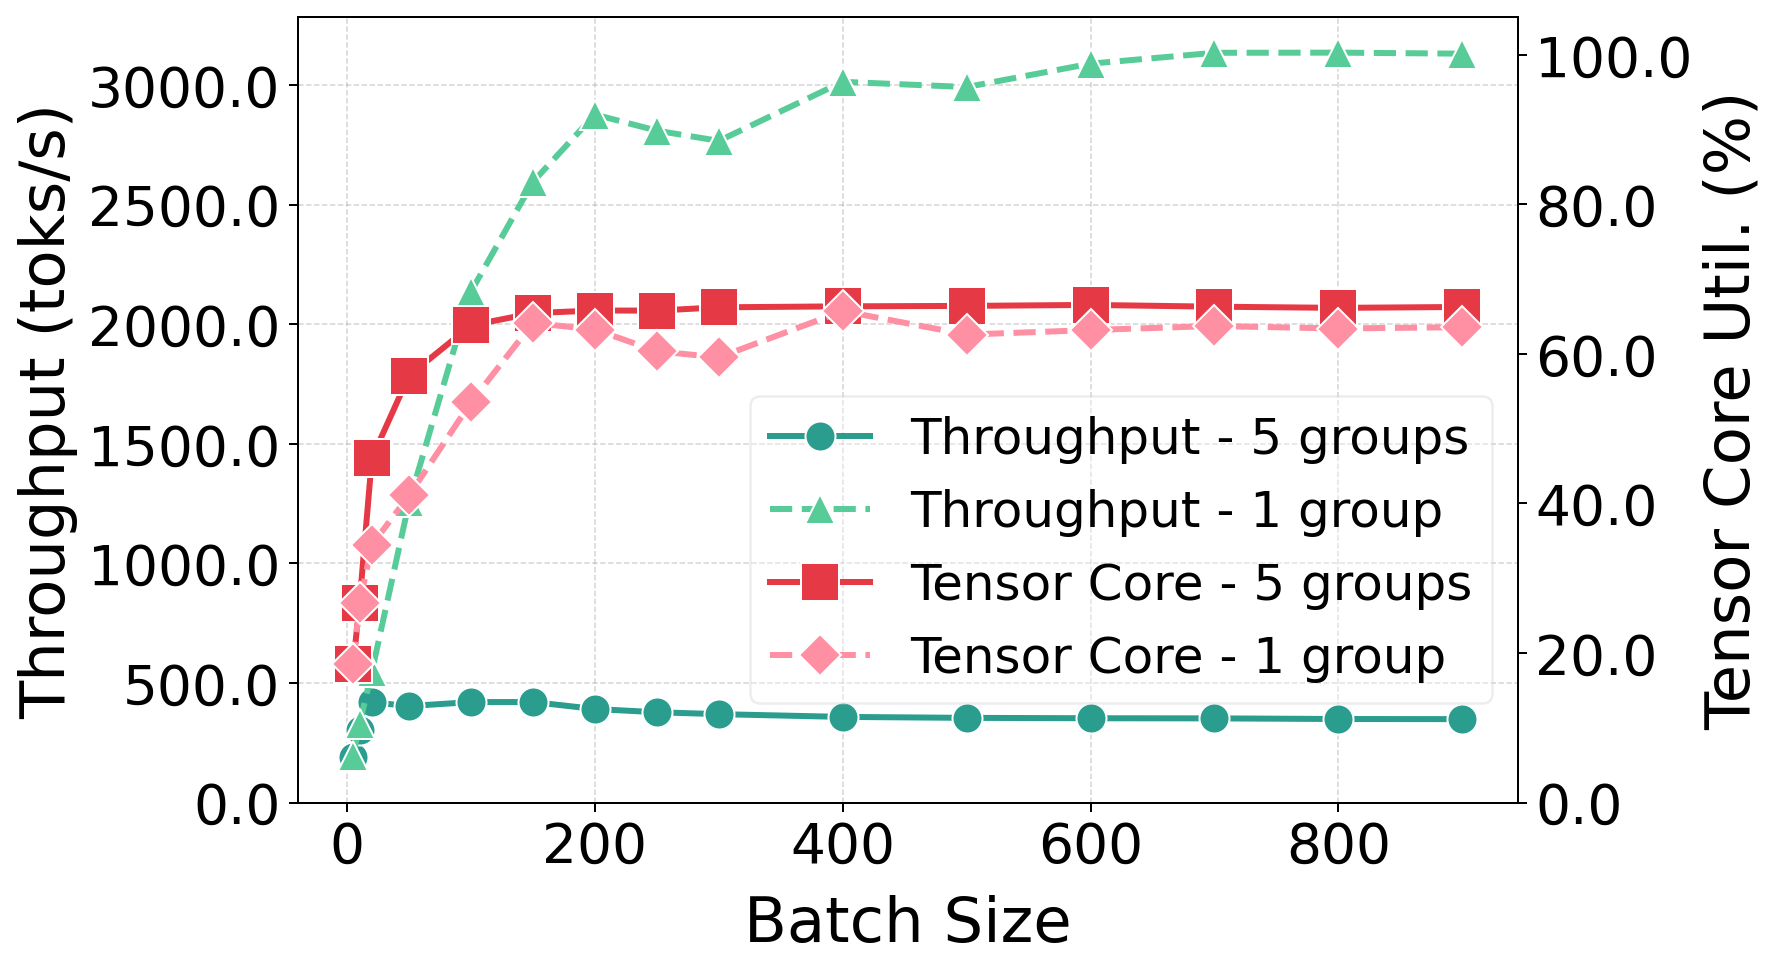
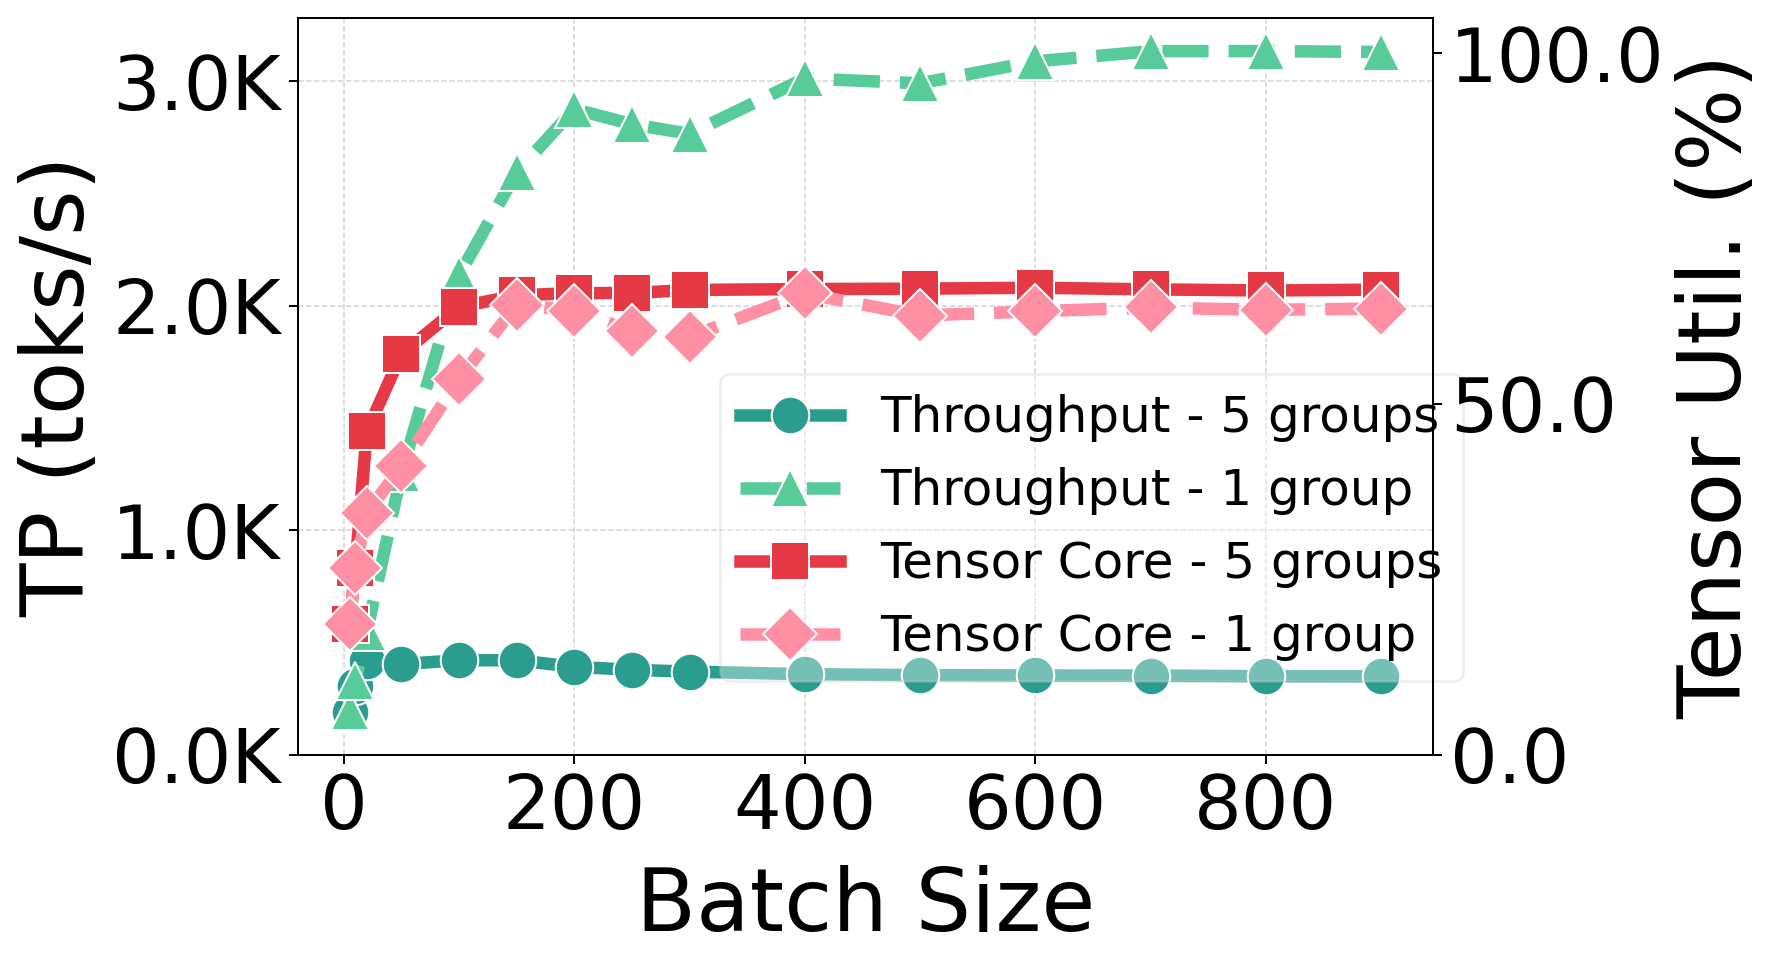
req-plots

Changed region(s): [[0.0619, 0.2172, 0.9904, 0.9928], [0.0, 0.062, 0.1857, 0.7446], [0.2786, 0.0, 0.9904, 0.2482]]

diff --git a/code/vllm/batch_size_logs/plot_both.py b/code/vllm/batch_size_logs/plot_both.py
@@ -37,7 +37,7 @@ MARKER_HETERO_RIGHT = "s"   # hetero, right-axis (tensor core / SM Occupancy)
 MARKER_HOMO_LEFT    = "^"   # homo,   left-axis
 MARKER_HOMO_RIGHT   = "D"   # homo,   right-axis
 
-LW = 2.4
+LW = 5
 MS = 10
 
 # Fields stored per batch-size entry in the cache
@@ -259,11 +259,11 @@ def _base_fig():
 
 
 def _finish(fig, ax_l, ax_r, xlabel, ylabel_l, ylabel_r, outpath, legend_loc="best"):
-    ax_l.set_xlabel(xlabel,   fontsize=25, labelpad=8)
-    ax_l.set_ylabel(ylabel_l, fontsize=25)
-    ax_r.set_ylabel(ylabel_r, fontsize=25)
-    ax_l.tick_params(axis="both", labelsize=22)
-    ax_r.tick_params(axis="y",    labelsize=22)
+    ax_l.set_xlabel(xlabel,   fontsize=35, labelpad=8)
+    ax_l.set_ylabel(ylabel_l, fontsize=35)
+    ax_r.set_ylabel(ylabel_r, fontsize=35)
+    ax_l.tick_params(axis="both", labelsize=30)
+    ax_r.tick_params(axis="y",    labelsize=30)
     ax_l.grid(True, linewidth=0.6, linestyle="--", alpha=0.55)
 
     lines_l, labels_l = ax_l.get_legend_handles_labels()
@@ -305,14 +305,15 @@ def plot_throughput_tensor(hetero: dict, homo: dict, out_dir: str) -> None:
 
     xs, ys = _xy(hetero, "throughput")
     ax_l.plot(xs, ys, color=C_TPUT_HETERO, marker=MARKER_HETERO_LEFT,
-              linestyle="-",  label="Throughput - 5 groups", **kw_base, markersize=12)
+              linestyle="-",  label="Throughput - 5 groups", **kw_base, markersize=15)
 
     xs, ys = _xy(homo, "throughput")
     ax_l.plot(xs, ys, color=C_TPUT_HOMO,   marker=MARKER_HOMO_LEFT,
-              linestyle="--", label="Throughput - 1 group",   **kw_base, markersize=12)
+              linestyle="--", label="Throughput - 1 group",   **kw_base, markersize=15)
 
     ax_l.set_ylim(bottom=0)
-    ax_l.yaxis.set_major_formatter(ticker.FormatStrFormatter("%.1f"))
+    # change 1000 to 1k
+    ax_l.yaxis.set_major_formatter(ticker.FuncFormatter(lambda x, p: f"{x/1000:.1f}K"))
     ax_l.xaxis.set_major_locator(ticker.MaxNLocator(nbins=6, integer=True))
 
     xs1, ys1 = _xy(hetero, "tenso")
@@ -326,15 +327,15 @@ def plot_throughput_tensor(hetero: dict, homo: dict, out_dir: str) -> None:
         if b in xs1:
             ys2.append((ys[xs.index(b)] + ys1[xs1.index(b)]) / 2)
     ax_r.plot(xs, ys2, color=C_TENSO_HOMO,   marker=MARKER_HOMO_RIGHT,
-              linestyle="--", label="Tensor Core - 1 group",   **kw_base, markersize=12)
+              linestyle="--", label="Tensor Core - 1 group",   **kw_base, markersize=15)
 
     ax_r.set_ylim(0, 105)
     ax_r.yaxis.set_major_formatter(ticker.FormatStrFormatter("%.1f"))
 
     _finish(fig, ax_l, ax_r,
             xlabel   = "Batch Size",
-            ylabel_l = "Throughput (toks/s)",
-            ylabel_r = "Tensor Core Util. (%)",
+            ylabel_l = "TP (toks/s)",
+            ylabel_r = "Tensor Util. (%)",
             outpath  = os.path.join(out_dir, "plot1_throughput_tensor_merged.png"),
         )
 
